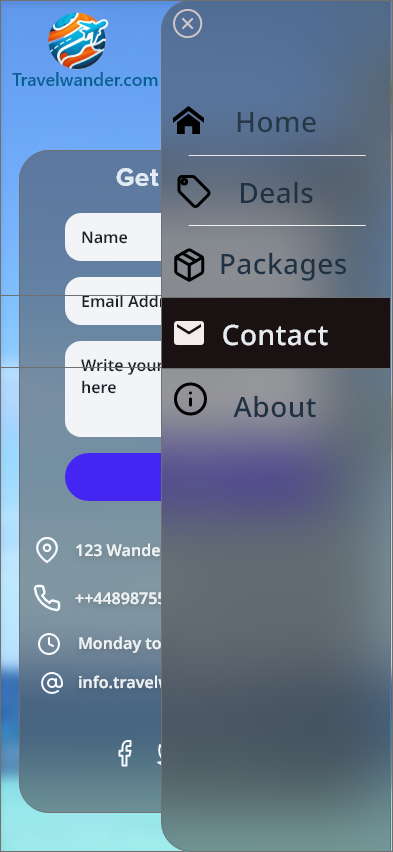
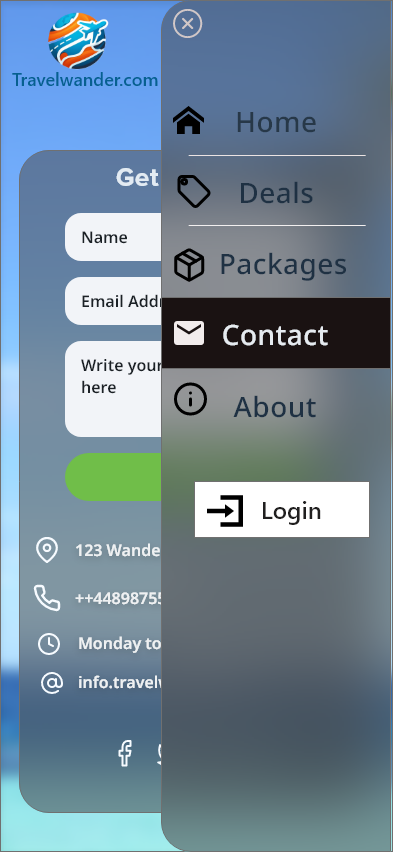
Update readme wireframes for mobile

Changed region(s): [[0.1527, 0.4883, 0.9466, 0.6408]]

diff --git a/readme.md b/readme.md
@@ -366,7 +366,8 @@ Specify the license under which your project is distributed. You can choose from
 <img src="./assets/wireframes/deals1.png" style="width: 60%; height: 60%;">
 <img src="./assets/wireframes/mobile_contact_menu.png" style="width: 24%; height: 38%;">
 <img src="./assets/wireframes/mobile_contact.png" style="width: 24%; height: 38%;">
-<img src="./assets/wireframes/mobile_second_page_col1.png" style="width: 24%; height: 38%;">
+<img src="./assets/wireframes/mobile_signup.png" style="width: 24%; height: 38%;">
+<img src="./assets/wireframes/mobile_signin.png" style="width: 24%; height: 38%;">
 
 
 
